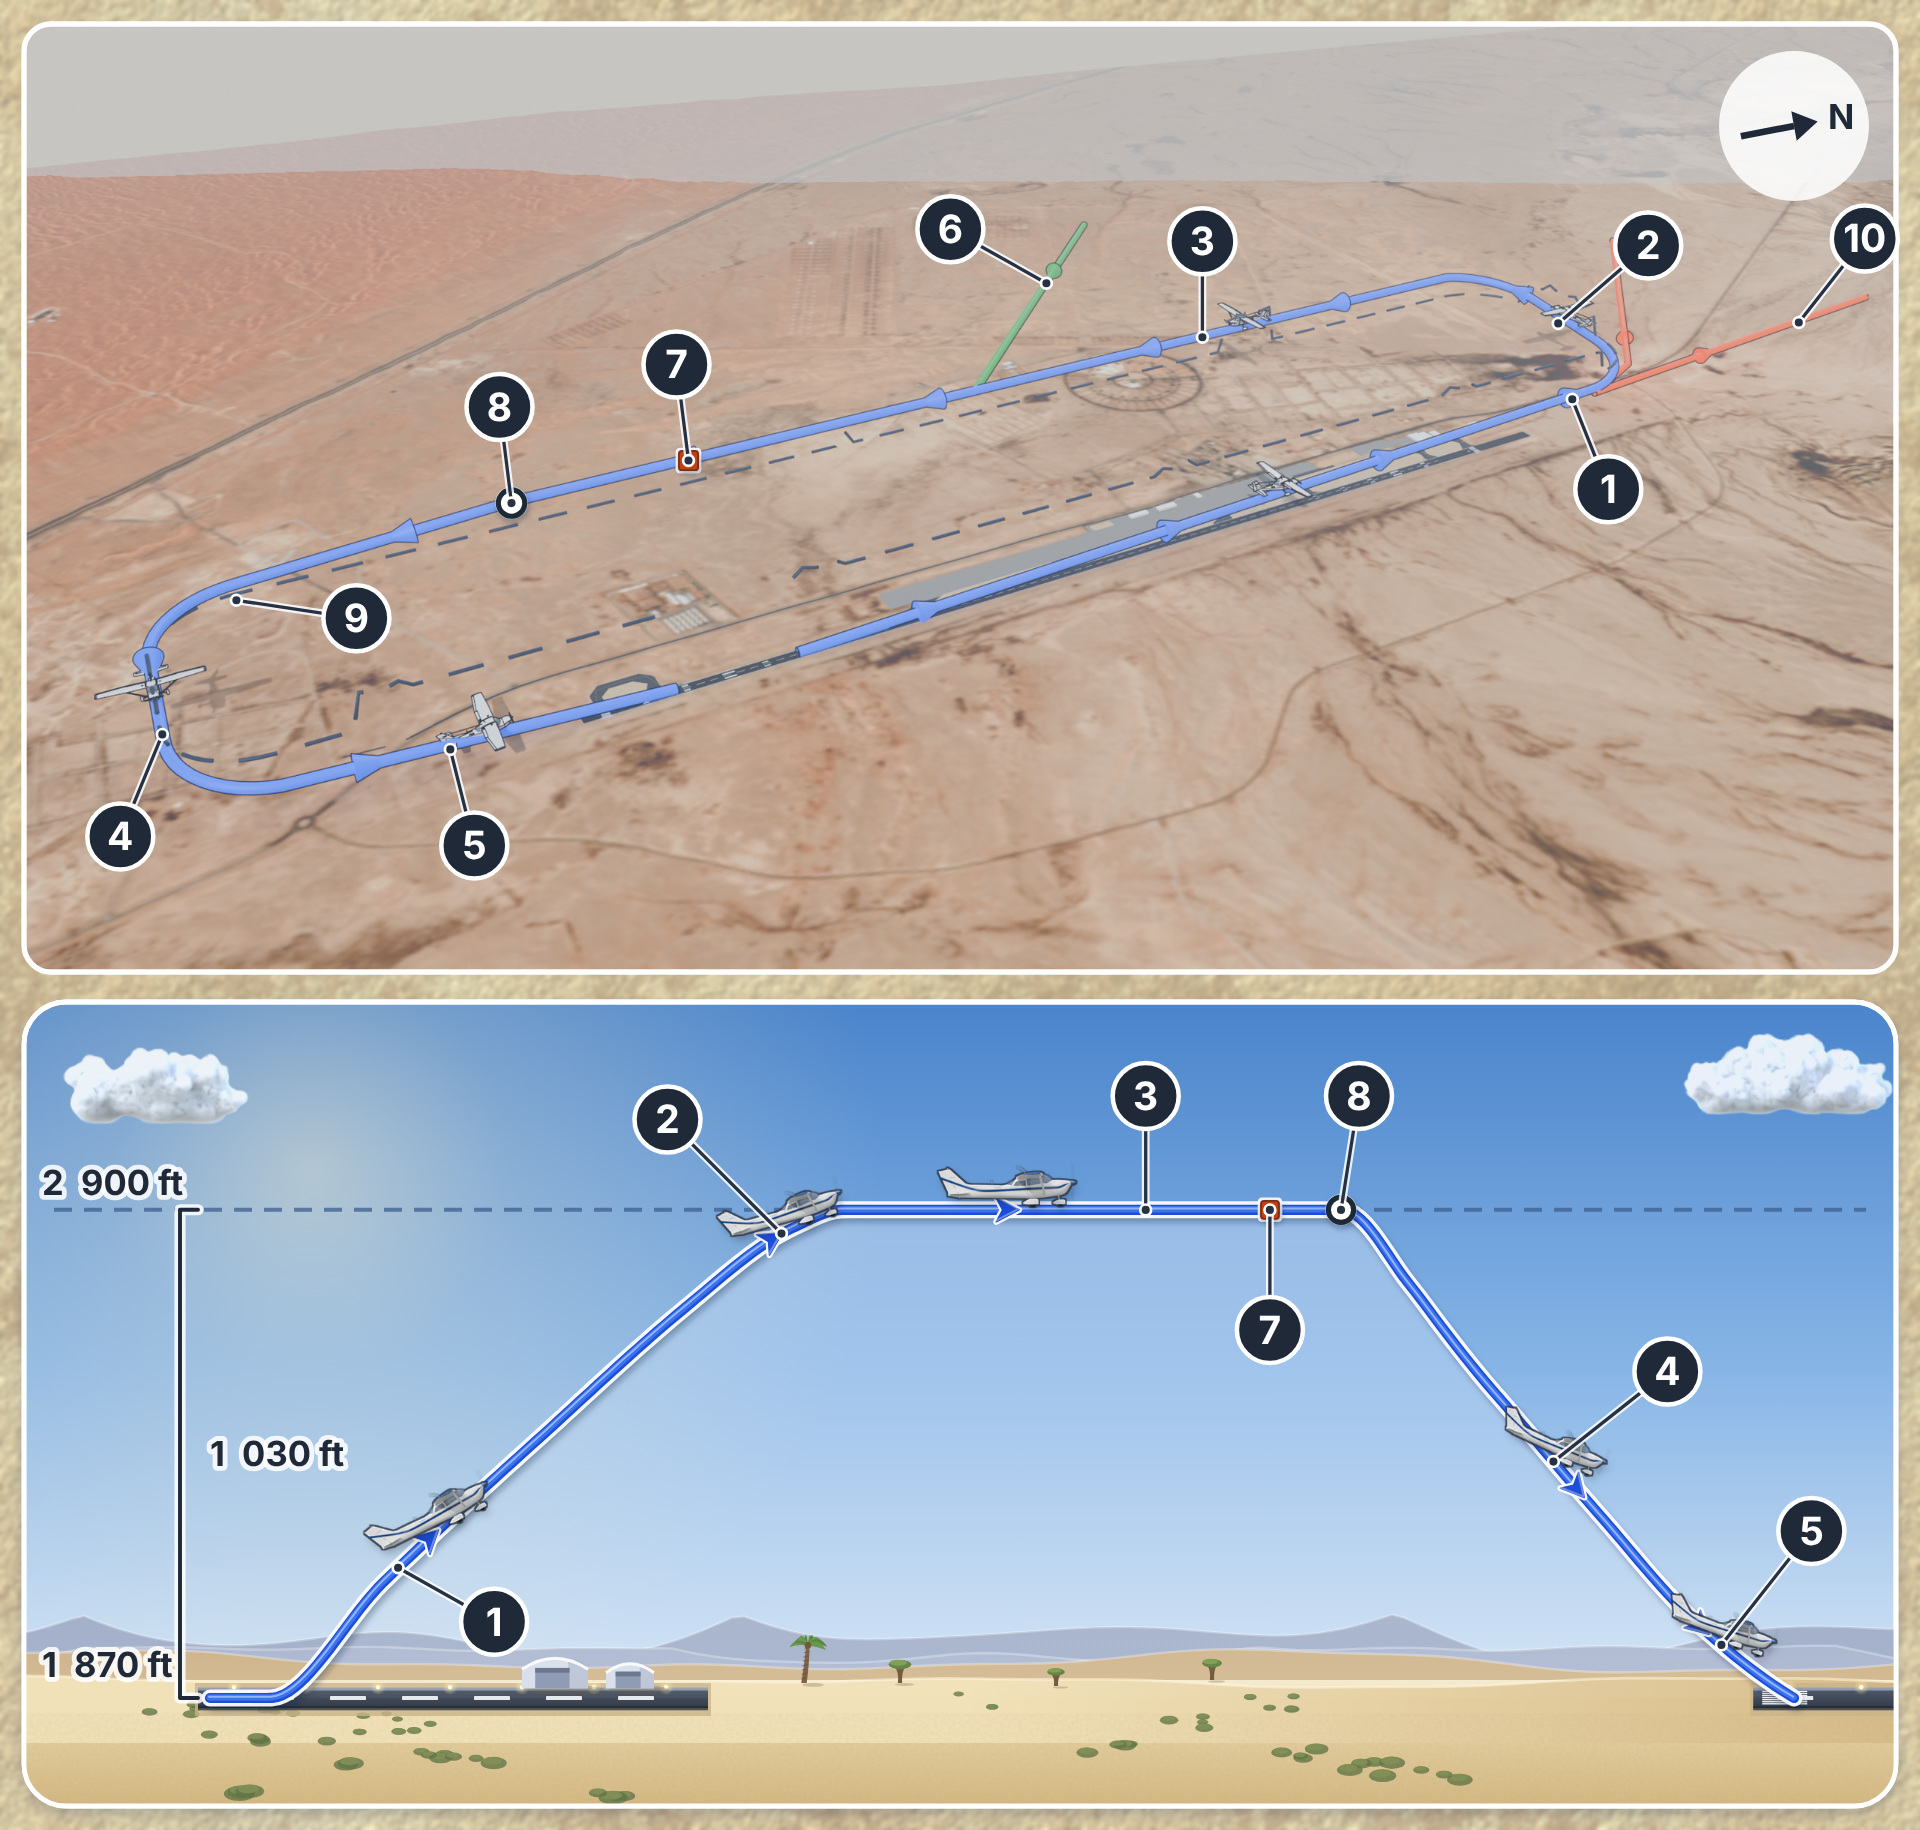
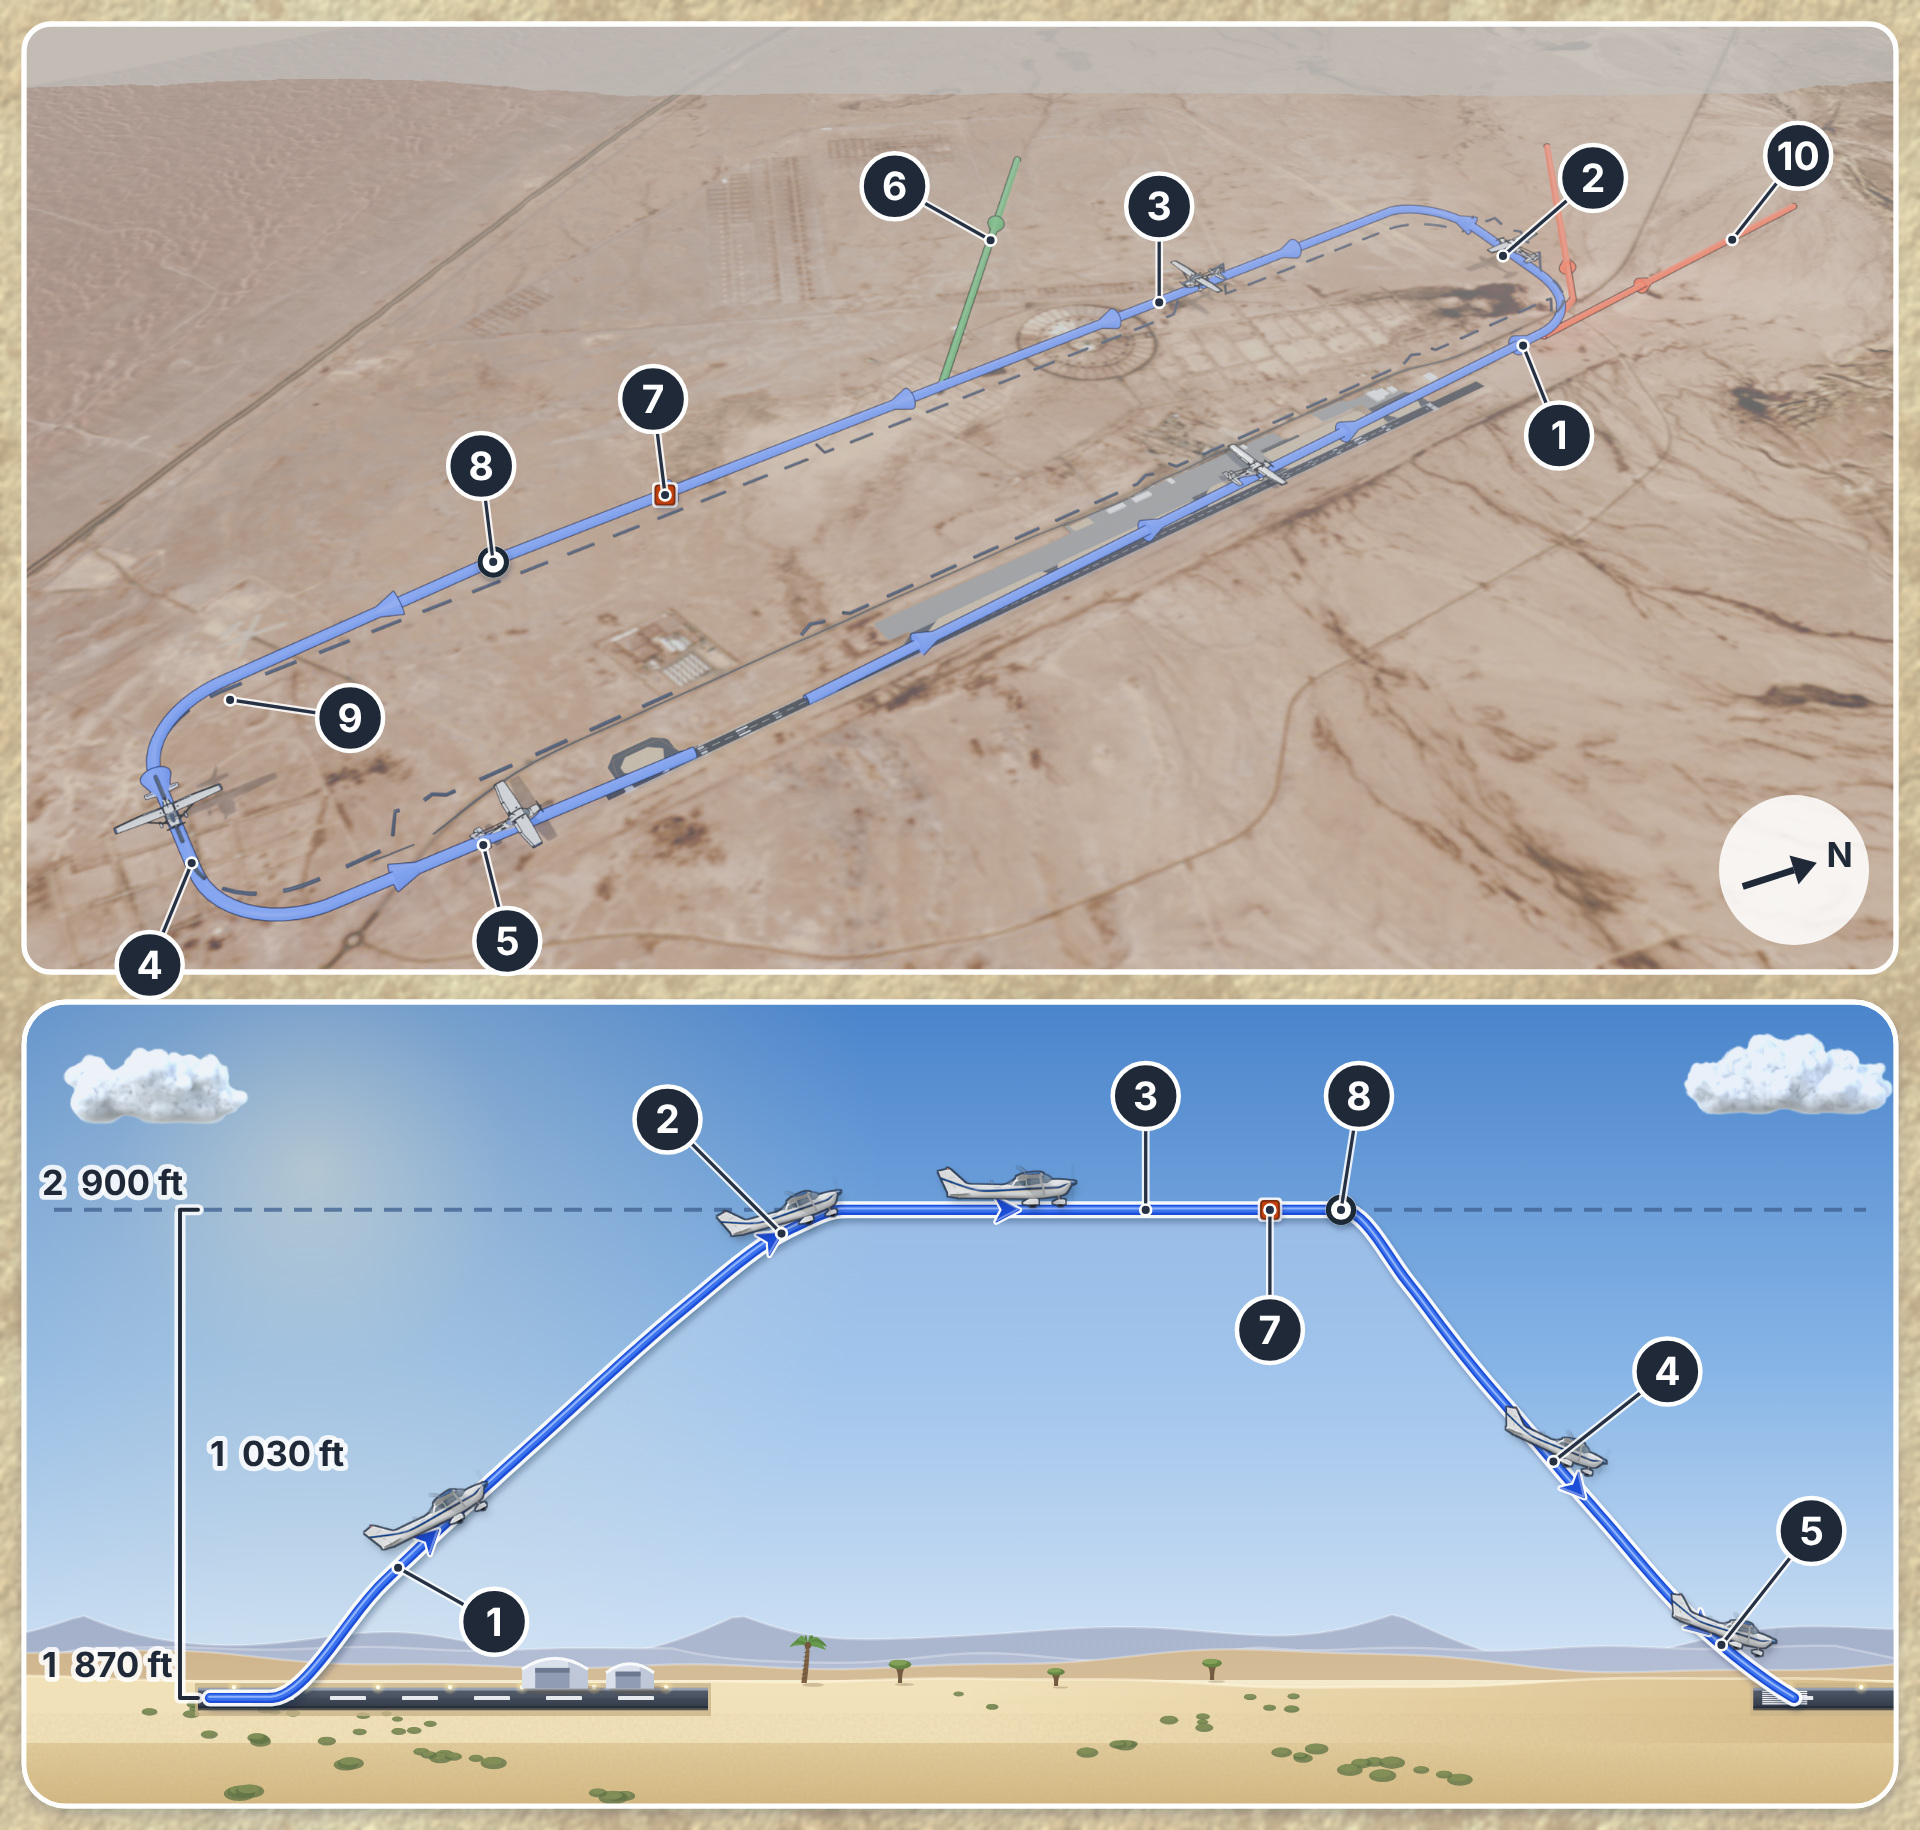
Style C pilots: 16-10 and 18-7 rebuilt from the final renders; 18-7's north arrow clear of callout 10
Claude-Session: https://claude.ai/code/session_01GaKzbGvzg6oJZTLUkbk9TR

diff --git a/09_book_figures/handbook/figs/f_18_07_circuit.py b/09_book_figures/handbook/figs/f_18_07_circuit.py
@@ -52,7 +52,7 @@ def plan3d():
            f'<stop offset="1" stop-color="#E4EEF6"/></linearGradient></defs><rect x="{PX}" y="{PY}" width="{PW}" height="{PH * 0.25:.1f}" fill="url(#c3dk)"/>')
     marks = B.square_mark(*at("7")) + B.ring(*at("8"))
     (x0, y0), (x1, y1) = at("n0"), at("n1")
-    north = B.north_arrow(PX + PW - 34, PY + 34, (x1 - x0, y1 - y0))
+    north = B.north_arrow(PX + PW - 34, PY + PH - 34, (x1 - x0, y1 - y0))
     return [clip + sky, img, marks + north + "</g>" + f'<rect x="{PX}" y="{PY}" width="{PW}" height="{PH}" rx="9" fill="none" stroke="#FFFFFF" stroke-width="1.8"/>']
 
 
